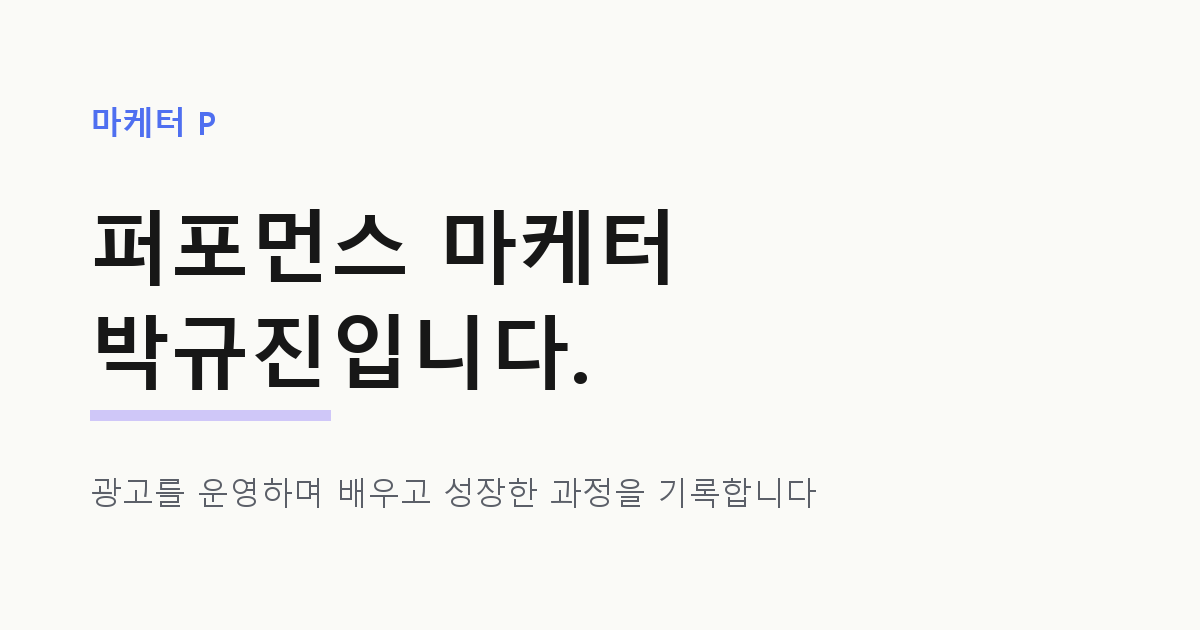
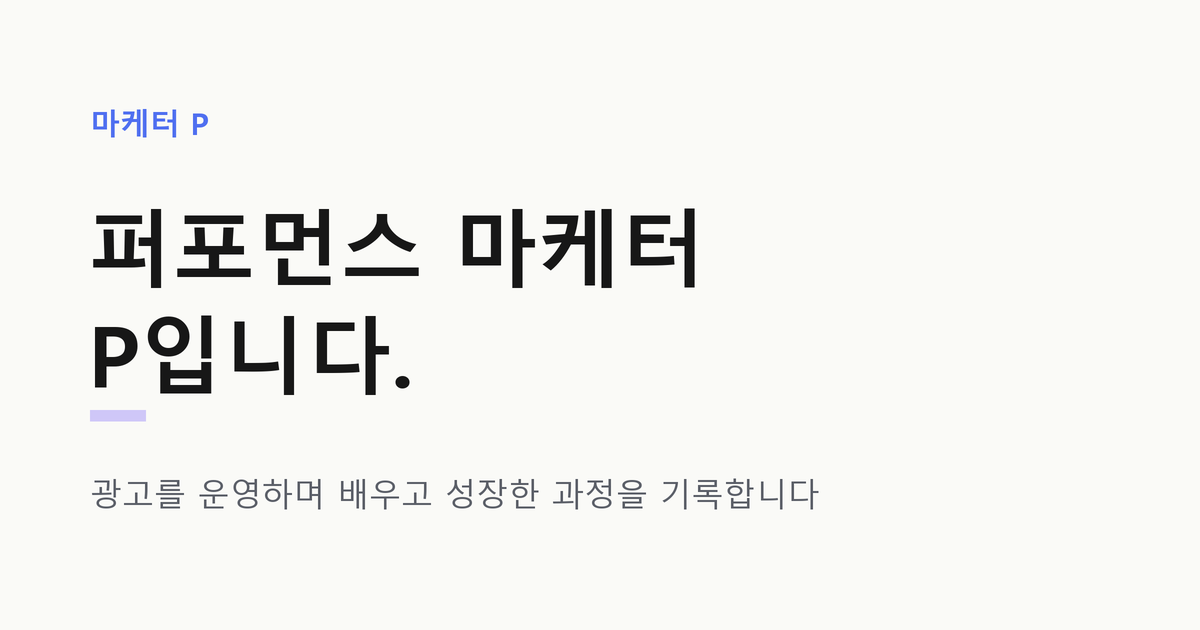
실명 대신 '마케터 P'로 표기 (사이트 문구, 공유 이미지)

diff --git a/src/site.ts b/src/site.ts
@@ -1,10 +1,10 @@
 export const SITE = {
-  name: '박규진',
+  name: '마케터 P',
   title: '마케터 P',
-  tagline: '퍼포먼스 마케터 박규진입니다.',
+  tagline: '퍼포먼스 마케터 P입니다.',
   role: '광고대행사 퍼포먼스 마케터(AE)',
   description:
-    '퍼포먼스 마케터 박규진의 블로그. 광고 운영 실무와 데이터 분석, AI 활용, 성장 과정을 기록합니다.',
+    '퍼포먼스 마케터 P의 블로그. 광고 운영 실무와 데이터 분석, AI 활용, 성장 과정을 기록합니다.',
   about:
     '퍼포먼스 마케터로 일하며 마주한 문제와 실험, 그리고 배운 점을 기록합니다. 이 블로그는 저의 성장 과정이자, 같은 고민을 하는 사람에게 건네는 작은 정리 노트입니다.',
   // GA4 측정 ID (예: G-XXXXXXX). 비워 두면 추적 코드를 넣지 않습니다.

diff --git a/src/pages/llms.txt.ts b/src/pages/llms.txt.ts
@@ -11,7 +11,7 @@ export const GET: APIRoute = async () => {
     '',
     `> ${SITE.description}`,
     '',
-    `작성자: ${SITE.name} (${SITE.role}). 블로그 이름은 "${SITE.title}"입니다.`,
+    `작성자: ${SITE.name} (${SITE.role}).`,
     '광고주 이름은 가명으로, 광고비는 비율(%)로 표기합니다.',
     '',
     '## 소개',
